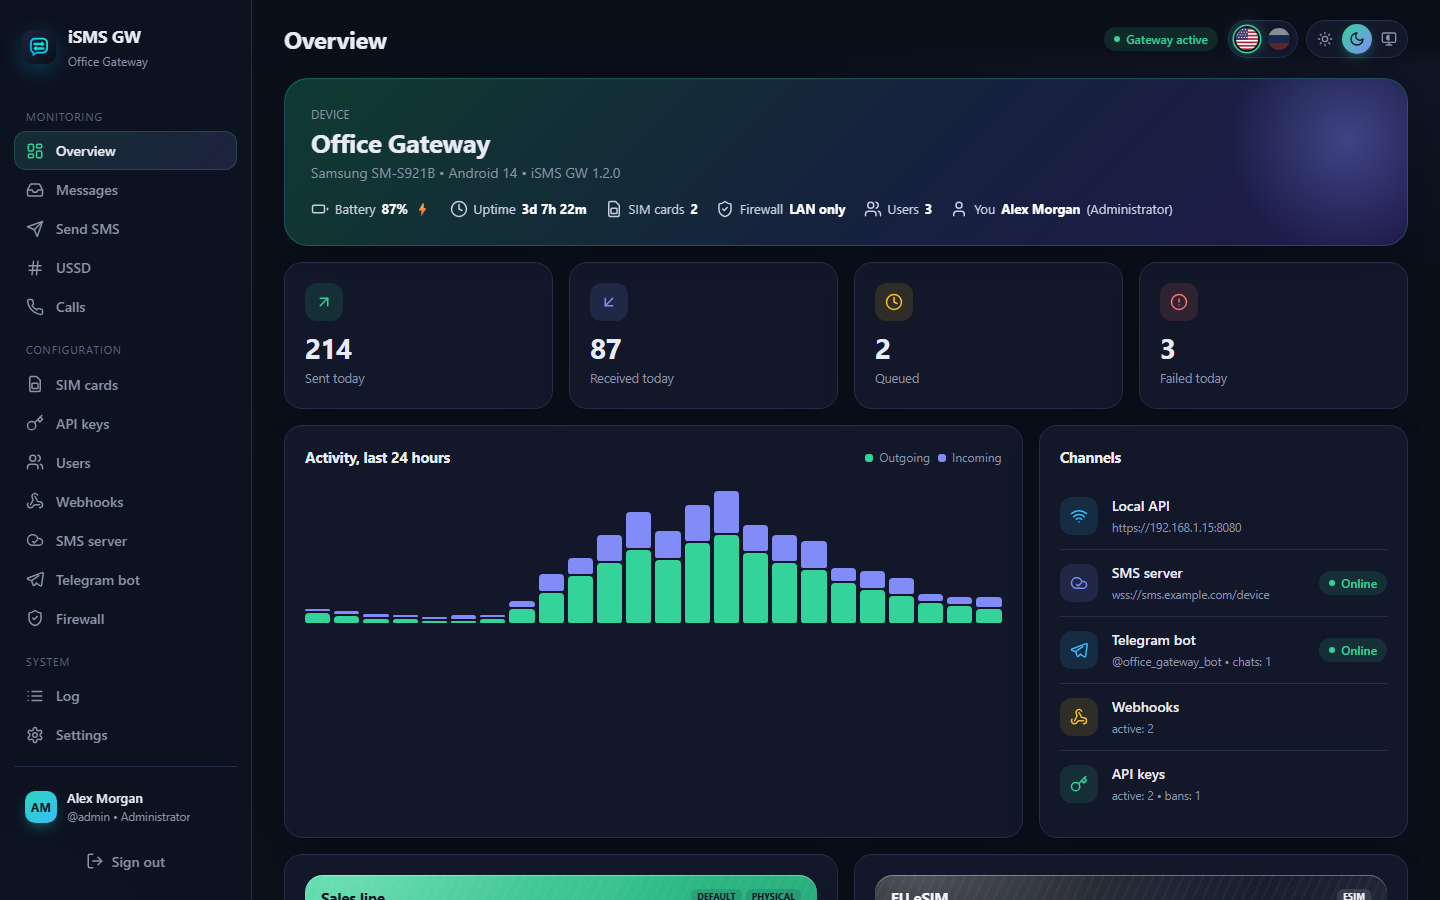
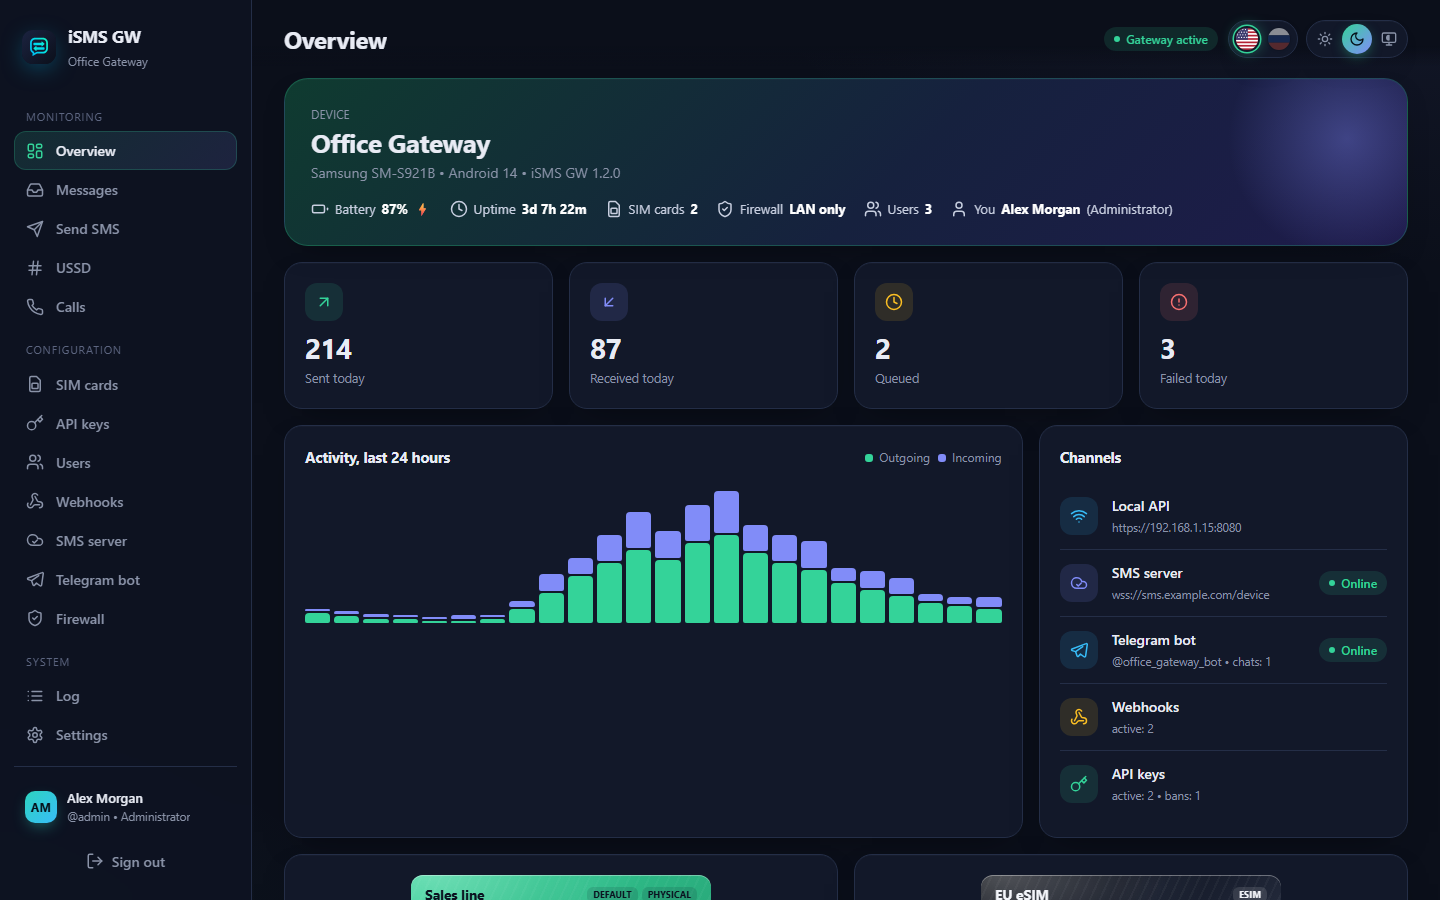
Web: SIM carrier card keeps true ISO ID-1 proportions and a compact size

Changed region(s): [[0.4062, 0.9644, 0.75, 1.0], [0.1875, 0.9644, 0.3438, 1.0], [0.8438, 0.9644, 0.9688, 1.0]]

diff --git a/app/src/main/assets/web/app.css b/app/src/main/assets/web/app.css
@@ -341,7 +341,7 @@ tbody tr:hover{background:var(--row-hover)}
 .progress.full>div{background:var(--red)}
 
 /* SIM card on its plastic carrier: punch-out mini/micro/nano outline, gold chip in the centre */
-.bank{--c:#34d399;--c2:#0b6b4c;position:relative;overflow:hidden;border-radius:18px;padding:14px 16px 12px;aspect-ratio:1.586;max-height:240px;width:100%;
+.bank{--c:#34d399;--c2:#0b6b4c;position:relative;overflow:hidden;border-radius:12px;padding:12px 14px 10px;aspect-ratio:85.6/54;width:100%;max-width:300px;margin:0 auto;
   display:grid;grid-template-rows:auto 1fr auto;gap:8px;color:#fff;isolation:isolate;
   background:linear-gradient(140deg,var(--c) 0%,var(--c2) 100%);
   box-shadow:inset 0 1px 0 rgba(255,255,255,.35),inset 0 -1px 0 rgba(0,0,0,.2)}
@@ -355,8 +355,8 @@ tbody tr:hover{background:var(--row-hover)}
 .bank.black{background:linear-gradient(140deg,#090c13 0%,#1a2030 50%,#394256 100%);color:#f3f5fa}
 .bank-head{display:flex;align-items:flex-start;justify-content:space-between;gap:8px;min-width:0}
 .bank-title{min-width:0}
-.bank-label{font-size:15px;font-weight:700;letter-spacing:-.01em;line-height:1.2;overflow:hidden;text-overflow:ellipsis;white-space:nowrap}
-.bank-sub{font-size:10.5px;opacity:.8;overflow:hidden;text-overflow:ellipsis;white-space:nowrap}
+.bank-label{font-size:14px;font-weight:700;letter-spacing:-.01em;line-height:1.2;overflow:hidden;text-overflow:ellipsis;white-space:nowrap}
+.bank-sub{font-size:10px;opacity:.8;overflow:hidden;text-overflow:ellipsis;white-space:nowrap}
 .bank-tags{display:flex;flex-wrap:wrap;gap:4px;justify-content:flex-end;flex:none;max-width:48%}
 .bank-tag,.bank-slot{font-family:var(--font);font-size:8.5px;font-weight:700;letter-spacing:.05em;text-transform:uppercase;padding:2px 6px;border-radius:6px;background:rgba(255,255,255,.2);white-space:nowrap}
 .bank.ink-dark .bank-tag,.bank.ink-dark .bank-slot{background:rgba(11,18,32,.12)}
@@ -369,14 +369,14 @@ tbody tr:hover{background:var(--row-hover)}
 .sim-punch.esim .bank-chip{width:46%;top:44%;box-shadow:0 0 0 4px rgba(255,255,255,.12),0 0 18px rgba(255,255,255,.18),0 2px 5px rgba(0,0,0,.3)}
 .esim-mark{position:absolute;left:0;right:0;bottom:4%;text-align:center;font-size:8px;font-weight:700;letter-spacing:.18em;text-transform:uppercase;opacity:.75}
 .bank-info{display:flex;flex-direction:column;align-items:flex-start;gap:4px;min-width:0}
-.bank-num{font-family:var(--mono);font-size:11.5px;letter-spacing:.04em;opacity:.95;max-width:100%;overflow:hidden;text-overflow:ellipsis;white-space:nowrap}
-.bank-icc{font-family:var(--mono);font-size:9.5px;letter-spacing:.1em;opacity:.75;white-space:nowrap}
+.bank-num{font-family:var(--mono);font-size:11px;letter-spacing:.04em;opacity:.95;max-width:100%;overflow:hidden;text-overflow:ellipsis;white-space:nowrap}
+.bank-icc{font-family:var(--mono);font-size:9px;letter-spacing:.1em;opacity:.75;white-space:nowrap}
 .bank-slot{margin-top:2px;background:rgba(255,255,255,.28)}
 .bank-brand{display:flex;align-items:center;gap:5px;justify-self:end;font-size:9px;font-weight:700;letter-spacing:.14em;text-transform:uppercase;opacity:.55}
 .bank-brand .logo-mark{width:13px;height:13px;border-radius:4px;box-shadow:none}
 .bank.inactive{filter:grayscale(.85) brightness(.92);opacity:.8}
 .bank.inactive .bank-slot{background:rgba(0,0,0,.28);color:#fff}
-.bank.compact{aspect-ratio:1.586;min-height:0}
+.bank.compact{aspect-ratio:85.6/54;min-height:0}  /* ISO ID-1 carrier: 85.6 × 54 mm */
 .sim-grid{display:grid;grid-template-columns:repeat(auto-fill,minmax(min(100%,340px),1fr));gap:16px}
 .sim-tile{display:flex;flex-direction:column;padding:16px}
 .sim-note{display:flex;align-items:center;gap:8px;margin-top:12px;font-size:12.5px;color:var(--muted)}
